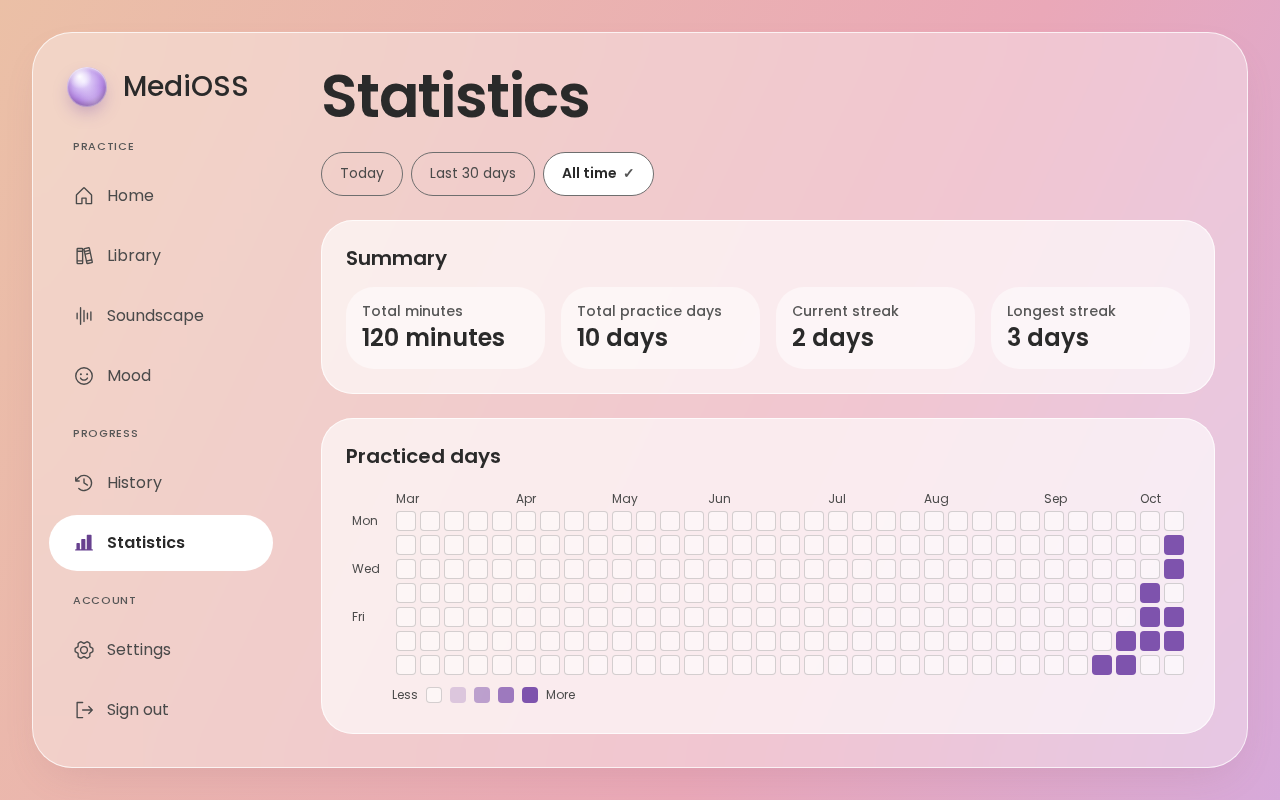
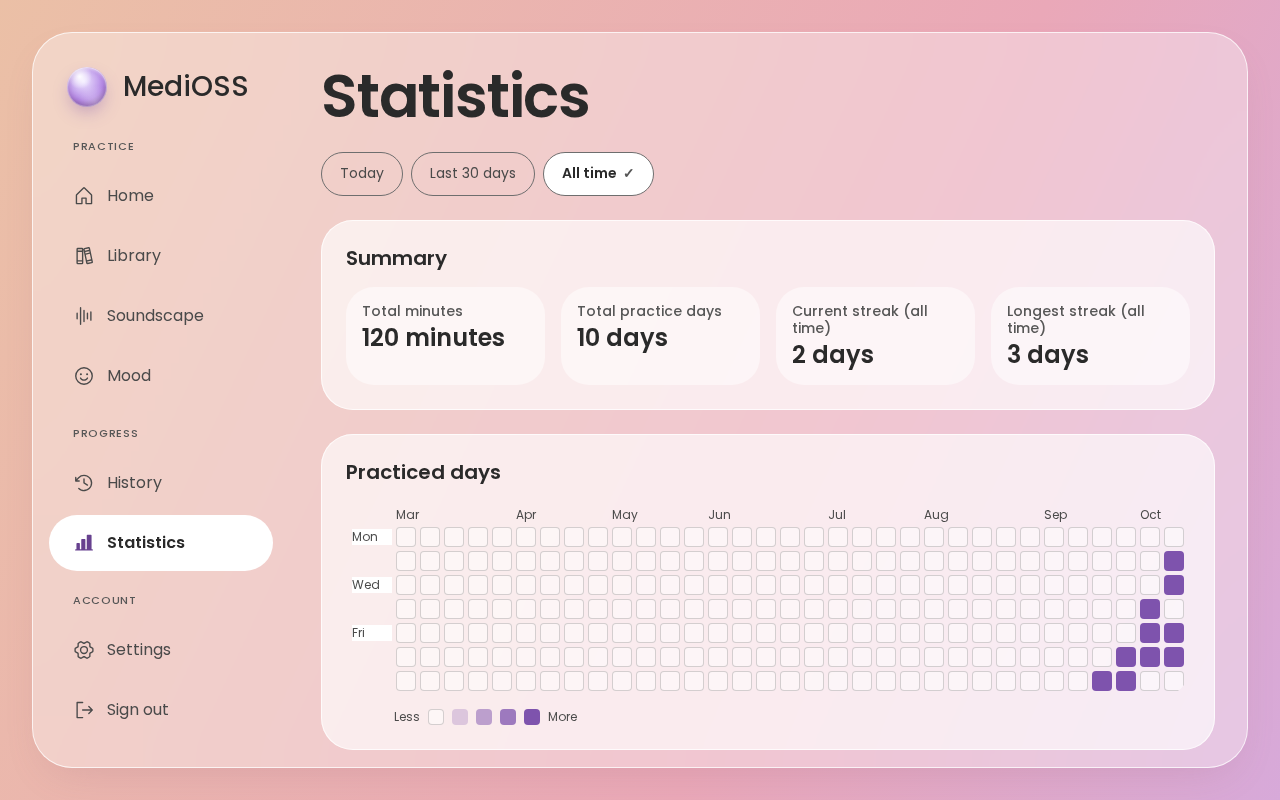
fix(web-ui): sticky heatmap weekday labels, legend outside scroll area, streaks labelled all-time; build: image HEALTHCHECK

Changed region(s): [[0.25, 0.4062, 0.9688, 0.9375], [0.875, 0.375, 0.9062, 0.4062]]

diff --git a/src/apps/web-ui/src/lib/screens/stats/stats-content.svelte b/src/apps/web-ui/src/lib/screens/stats/stats-content.svelte
@@ -218,7 +218,7 @@
                   {#each WEEKDAY_LABEL_ROWS as row (row)}
                     <span
                       aria-hidden="true"
-                      class="col-start-1 self-center"
+                      class="sticky left-0 z-10 col-start-1 self-center bg-surface-solid"
                       style="grid-row-start: {row + 2};"
                     >
                       {weekdayName(row)}
@@ -239,20 +239,20 @@
                     {/each}
                   {/each}
                 </div>
-                <div
-                  class="flex items-center gap-2 ps-10 text-xs text-ink-body"
-                  aria-hidden="true"
-                >
-                  <span>{t(m.heatmapLess)}</span>
-                  {#each levelClasses as levelClass, level (level)}
-                    <span
-                      class="size-4 rounded-[4px] {levelClass}"
-                      data-level={level}
-                    ></span>
-                  {/each}
-                  <span>{t(m.heatmapMore)}</span>
-                </div>
               </div>
+            </div>
+            <div
+              class="mt-3 flex items-center gap-2 ps-12 text-xs text-ink-body"
+              aria-hidden="true"
+            >
+              <span>{t(m.heatmapLess)}</span>
+              {#each levelClasses as levelClass, level (level)}
+                <span
+                  class="size-4 rounded-[4px] {levelClass}"
+                  data-level={level}
+                ></span>
+              {/each}
+              <span>{t(m.heatmapMore)}</span>
             </div>
           </RegionState>
         </Panel>

diff --git a/src/apps/web-ui/src/lib/screens/stats/stats.messages.ts b/src/apps/web-ui/src/lib/screens/stats/stats.messages.ts
@@ -10,8 +10,14 @@ export const statsMessages = defineMessages({
   summaryHeading: { en: "Summary", tr: "Özet" },
   totalMinutes: { en: "Total minutes", tr: "Toplam dakika" },
   totalDays: { en: "Total practice days", tr: "Toplam pratik günü" },
-  currentStreak: { en: "Current streak", tr: "Güncel seri" },
-  longestStreak: { en: "Longest streak", tr: "En uzun seri" },
+  currentStreak: {
+    en: "Current streak (all time)",
+    tr: "Güncel seri (tüm zamanlar)",
+  },
+  longestStreak: {
+    en: "Longest streak (all time)",
+    tr: "En uzun seri (tüm zamanlar)",
+  },
   heatmapLabel: {
     en: "Practice calendar, one square per day; scroll sideways for earlier weeks",
     tr: "Pratik takvimi, her gün için bir kare; önceki haftalar için yana kaydırın",
